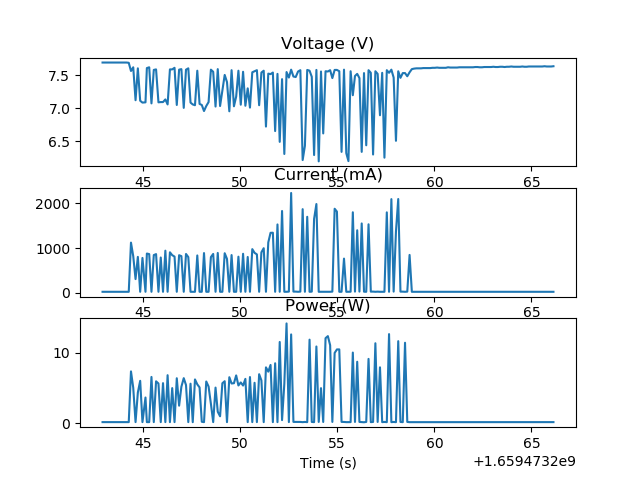
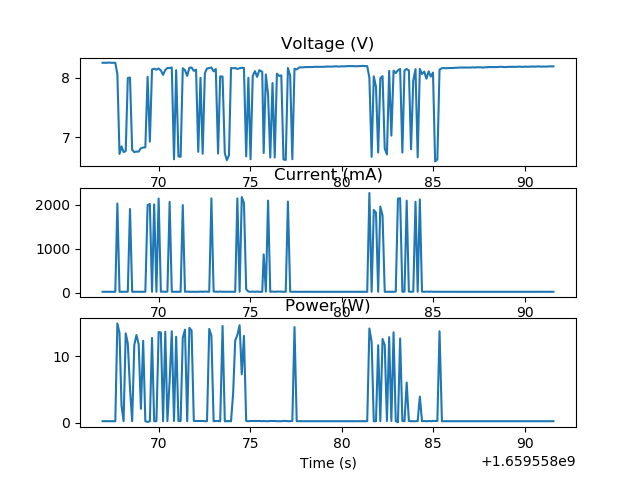
motor pwm frequency

diff --git a/testScripts/motor.py b/testScripts/motor.py
@@ -10,7 +10,7 @@ GPIO.setup(6, GPIO.OUT)
 GPIO.setup(12, GPIO.OUT)
 
 GPIO.output(6, GPIO.LOW)
-pwm = GPIO.PWM(12, 100)
+pwm = GPIO.PWM(12, 1000)
 pwm.start(0)
 
 def my_handler(channel, data):
